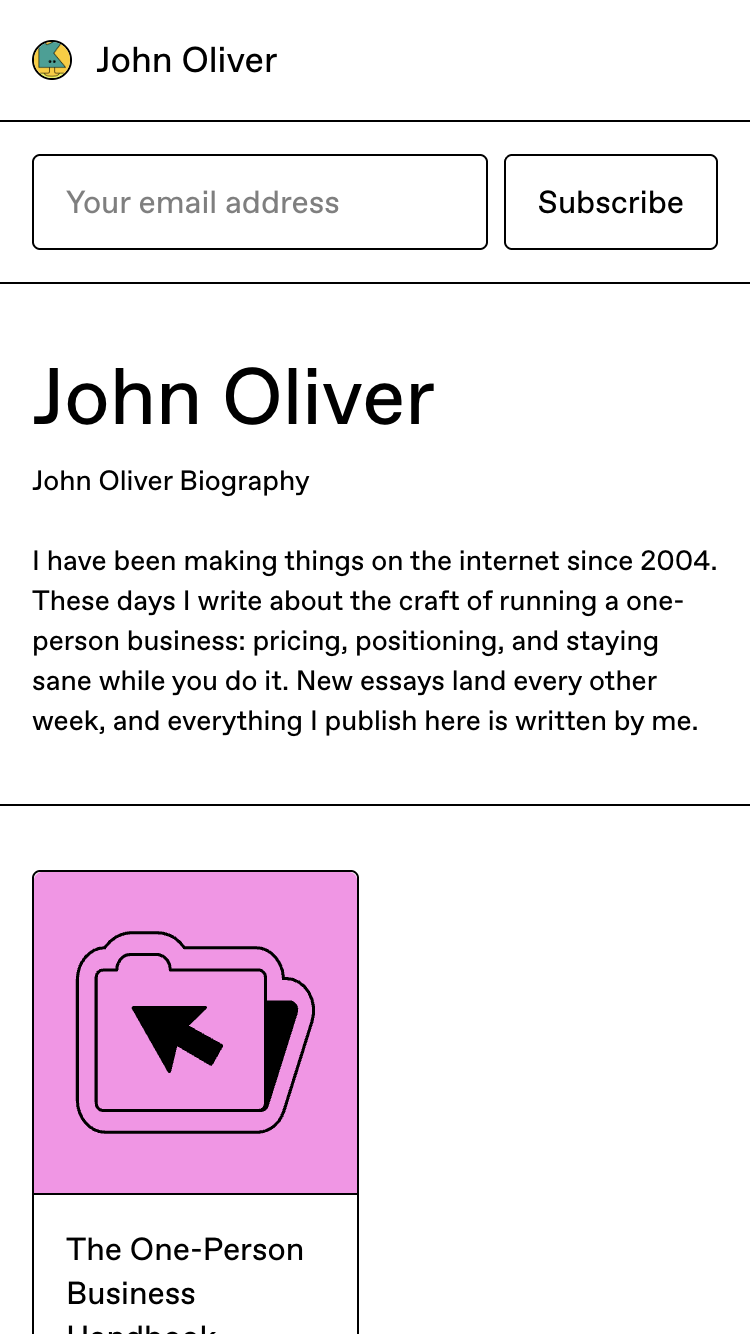
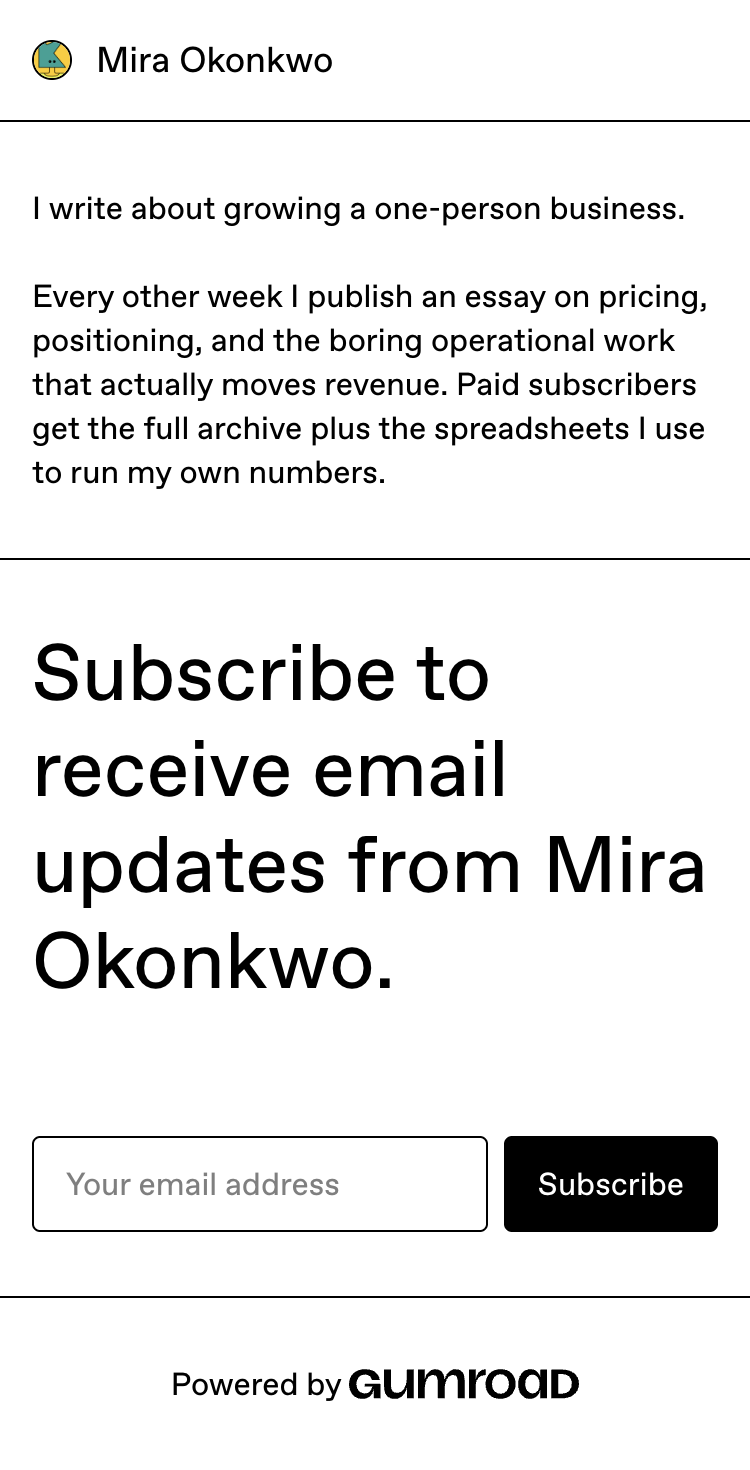
Render the profile bio as body-size prose without a name headline
The bio is now a plain paragraph at normal body size. The previous approach
promoted the creator's name to the page h1 above it, but the name already
appears in the navigation header, so repeating it in the page body is
redundant. Applied to both render sites: the public profile and the in-editor
preview.

Re-captured the desktop, mobile, and dark-theme after screenshots against this
markup.

diff --git a/app/javascript/components/Profile/index.tsx b/app/javascript/components/Profile/index.tsx
@@ -113,18 +113,15 @@ const PublicProfile = (props: Props) => {
         <header className="border-b border-border">
           <div className="mx-auto grid w-full max-w-6xl grid-cols-1 gap-4 px-4 py-8 lg:px-0">
             {props.bio ? (
-              <div className="grid gap-2">
-                {/*
-                  The creator's name is the headline of the profile, so it is the h1, and the bio
-                  reads as prose underneath it at small body size. Previously the bio itself was the
-                  h1, so a normal multi-sentence bio was displayed at headline size with no way for
-                  the creator to make it smaller.
-                */}
-                <h1>{props.creator_profile.name}</h1>
-                <p className="text-sm whitespace-pre-line">
-                  <AutoLink text={props.bio} />
-                </p>
-              </div>
+              /*
+                The bio is regular prose, so it renders as a paragraph at normal body size. It used
+                to be the page's h1, which meant a normal multi-sentence bio was displayed at
+                headline size with no way for the creator to make it smaller. The creator's name is
+                already shown in the navigation header above, so it is not repeated here.
+              */
+              <p className="whitespace-pre-line">
+                <AutoLink text={props.bio} />
+              </p>
             ) : null}
             {props.tabs.length > 1 ? (
               <UITabs aria-label="Profile Tabs">

diff --git a/app/javascript/components/Profile/EditPage.tsx b/app/javascript/components/Profile/EditPage.tsx
@@ -241,13 +241,10 @@ export const EditProfile = ({ controls = true, selectedTabIndex, onChange, ...pr
           ) : null}
           <div className="mx-auto grid w-full max-w-6xl gap-4">
             {props.bio ? (
-              <div className="grid gap-2">
-                {/* Mirrors the public profile: name is the h1 headline, bio is small body prose. */}
-                <h1>{props.creator_profile.name}</h1>
-                <p className="text-sm whitespace-pre-line">
-                  <AutoLink text={props.bio} />
-                </p>
-              </div>
+              /* Mirrors the public profile: the bio is a paragraph at normal body size, not a headline. */
+              <p className="whitespace-pre-line">
+                <AutoLink text={props.bio} />
+              </p>
             ) : null}
             {controls || tabs.length > 1 ? (
               <Tabs aria-label="Profile Tabs">

diff --git a/spec/requests/user/profile_spec.rb b/spec/requests/user/profile_spec.rb
@@ -19,13 +19,12 @@ describe "User profile page", type: :system, js: true do
       end
     end
 
-    it "renders the creator name as the headline and the bio as smaller body text" do
+    it "renders the bio as body text rather than a headline" do
       creator.update!(bio: "I write about growing a one-person business.\n\nNew essays every other week.")
       visit creator.subdomain_with_protocol
       within "main > header" do
-        expect(page).to have_selector "h1", text: creator.name
         expect(page).to have_selector "p", text: "I write about growing a one-person business."
-        expect(page).to_not have_selector "h1", text: "I write about growing a one-person business."
+        expect(page).to_not have_selector "h1"
       end
     end
 
